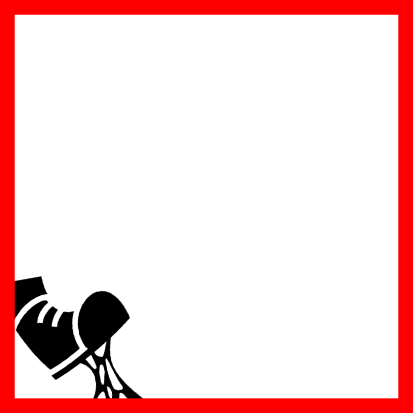
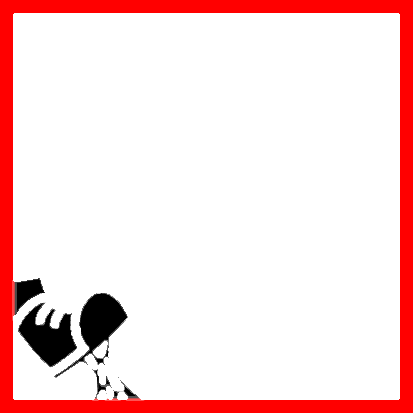
arrows done

Changed region(s): [[0.0291, 0.0291, 0.9879, 0.9879], [0.2906, 0.7264, 0.3196, 0.7845]]

diff --git a/The_Migthy_Game_Of_UBR/src/game/graphical/RoomView.java b/The_Migthy_Game_Of_UBR/src/game/graphical/RoomView.java
@@ -15,11 +15,11 @@ import static game.GUI.gameFrame;
 
 public class RoomView extends ElementView{
 
-    private static boolean onlyoone = true;
-
     private Room room;
 
     private JLabel maxCharLabel = new JLabel();
+
+    private String filename;
 
     public RoomView(ImageIcon newIcon, int x, int y, Room r) {
         this.xCoord = x;
@@ -35,19 +35,26 @@ public class RoomView extends ElementView{
 
     @Override
     public void drawImage() {
-        gameFrame.getMapView().add(image);
 
         for(Room tmpRoom : room.getNeighbours()){
-
-            if(onlyoone){
-                System.out.println(room.getUniqueName() + " + " + tmpRoom.getUniqueName());
-                JLabel arrow = drawArrow(room.getX(), room.getY(), tmpRoom.getX(), tmpRoom.getY());
-                //gameFrame.getMapView().add(arrow);
-                onlyoone = false;
+            filename = "Assets/arrow.png";
+            if(room.getX() < tmpRoom.getX() || (room.getX() == tmpRoom.getX() && room.getY() < tmpRoom.getY()) ){
+                filename = "Assets/arrowBackwards.png";
             }
+            if(tmpRoom.getNeighbours().contains(room)){
+                filename = "Assets/arrow2way.png";
+            }
+
+            JLabel arrow = drawArrow(room.getX()+30, room.getY()+30, tmpRoom.getX()+30, tmpRoom.getY()+30);
+            gameFrame.addArrow(arrow);
+
 
 
         }
+
+        gameFrame.getMapView().add(image);
+
+
 
         GameFrame.getInstance().getMapView().revalidate();
         GameFrame.getInstance().getMapView().repaint();
@@ -60,7 +67,7 @@ public class RoomView extends ElementView{
     private JLabel drawArrow(int x1, int y1, int x2, int y2) {
         int width = Math.abs(x1 - x2);
         int heigh = Math.abs(y1 - y2);
-        String filename = "Assets/Door(OneWay).png";
+
         double degree = Math.toDegrees(Math.atan((double) heigh / (double) width));
         if ((x1 < x2 && y1 > y2) || (x1 > x2 && y1 < y2)){
             degree *= -1;
@@ -68,7 +75,19 @@ public class RoomView extends ElementView{
         try{
 
             BufferedImage originalimg = ImageIO.read(new File(filename));
+            BufferedImage rotatedImg = rotate(originalimg, degree);
+            JLabel arrow = new JLabel(new ImageIcon(rotatedImg));
 
+            if (x1 <= x2 && y1 <= y2)
+                arrow.setBounds(x1, y1, width, heigh);
+            else if (x1 < x2 && y1 > y2)
+                arrow.setBounds(x1, y2, width, heigh);
+            else if (x1 > x2 && y1 < y2)
+                arrow.setBounds(x2, y1, width, heigh);
+            else if (x1 >= x2 && y1 >= y2)
+                arrow.setBounds(x2, y2, width, heigh);
+
+            return arrow;
 
 
         }catch (Exception e){
@@ -90,8 +109,10 @@ public class RoomView extends ElementView{
         Graphics2D g2d = rotate.createGraphics();
         int x = (newWidth - image.getWidth()) / 2;
         int y = (newHeight - image.getHeight()) / 2;
+
         AffineTransform at = new AffineTransform();
         at.setToRotation(radians, x + (image.getWidth() / 2), y + (image.getHeight() / 2));
+
         at.translate(x, y);
         g2d.setTransform(at);
         g2d.drawImage(image, 0, 0, null);

diff --git a/The_Migthy_Game_Of_UBR/src/game/graphical/GameFrame.java b/The_Migthy_Game_Of_UBR/src/game/graphical/GameFrame.java
@@ -37,6 +37,10 @@ public class GameFrame extends JFrame {
     private Student currentPlayer;
     private JPanel controllerPanel = new JPanel();
 
+    private JPanel arrows = new JPanel();
+
+    private JLayeredPane layeredPane = new JLayeredPane();
+
     private static GameFrame instance;
 
     private final int frameWidth = 1000;
@@ -184,8 +188,7 @@ public class GameFrame extends JFrame {
 
         add(controllerPanel, BorderLayout.WEST);
 
-        mapView.setLayout(null);
-        mapView.setBackground(Color.WHITE);
+
         mapView.addMouseListener(new MouseAdapter() {
             @Override
             public void mouseClicked(MouseEvent e) {
@@ -201,7 +204,31 @@ public class GameFrame extends JFrame {
 
         mapView.draw();
 
-        add(mapView, BorderLayout.CENTER);
+
+
+
+
+        mapView.setLayout(null);
+        mapView.setBounds(0, 0, frameWidth- controllerPanel.getWidth(), frameHeight);
+        //mapView.setBackground(new Color(0, 0, 0,0));
+        mapView.setOpaque(false);
+
+
+        arrows.setLayout(null);
+        arrows.setBounds(0, 0, frameWidth- controllerPanel.getWidth(), frameHeight);
+        arrows.setBackground(Color.WHITE);
+        arrows.setOpaque(true);
+
+        layeredPane.setBounds(0, 0, frameWidth - controllerPanel.getWidth(), frameHeight);
+        layeredPane.add(arrows, JLayeredPane.DEFAULT_LAYER);
+        layeredPane.add(mapView, JLayeredPane.PALETTE_LAYER);
+
+        //getContentPane().add(layeredPane);
+
+        add(layeredPane, BorderLayout.CENTER);
+
+        //add(arrows, BorderLayout.CENTER);
+        //add(mapView, BorderLayout.CENTER);
 
 
 
@@ -212,4 +239,9 @@ public class GameFrame extends JFrame {
 
         drawMap();
     }
+
+    public void addArrow(JLabel arrow){
+        arrows.add(arrow);
+    }
+
 }

diff --git a/The_Migthy_Game_Of_UBR/src/game/graphical/MapView.java b/The_Migthy_Game_Of_UBR/src/game/graphical/MapView.java
@@ -6,6 +6,8 @@ import java.util.List;
 
 public class MapView extends JPanel {
 
+
+
     private List<ElementView> elementViewList;
 
     public MapView(List<ElementView> elementViewList) {
